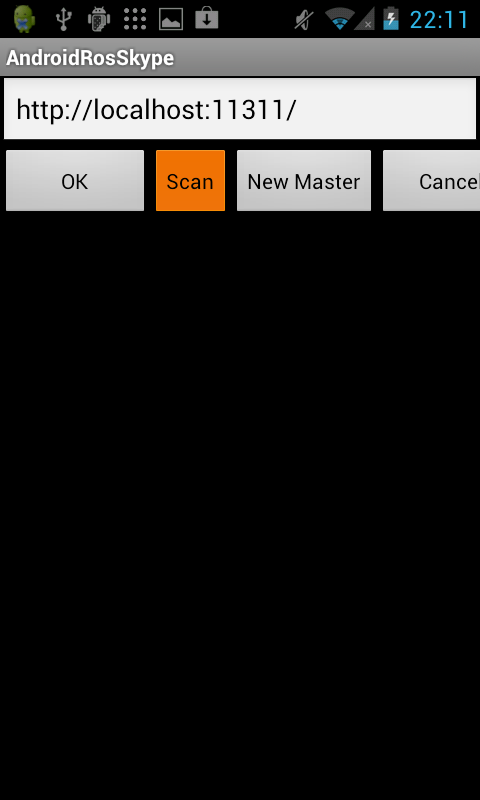
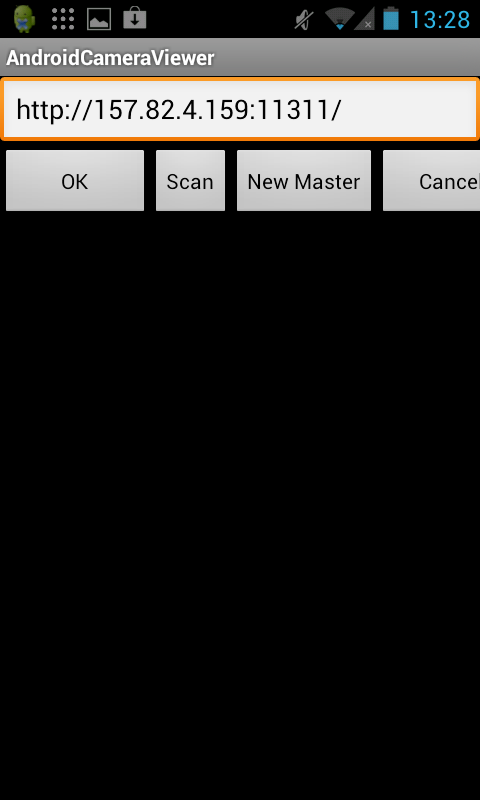
revise android_camera_viewer

diff --git a/jsk_android_apps/android_camera_viewer/launch/doc/android_camera_viewer/html/index.html b/jsk_android_apps/android_camera_viewer/launch/doc/android_camera_viewer/html/index.html
@@ -87,8 +87,24 @@
 <div class="highlight-bash"><div class="highlight"><pre>roslaunch android_camera_viewer usb_cam.launch
 </pre></div>
 </div>
-<img alt="_images/image1.png" src="_images/image1.png" />
-<img alt="_images/image2.jpeg" src="_images/image2.jpeg" />
+<img alt="_images/image1.png" src="_images/image1.png" style="width: 200px;" />
+<p>This application communicates the camera image on the PC with the camera image on the android.</p>
+<p>(PC)</p>
+<ol class="arabic simple">
+<li>start up roscore</li>
+<li>launch usb_cam.launch</li>
+</ol>
+<p>(android)</p>
+<ol class="arabic simple" start="3">
+<li>put ROS_MASTER_URI into the text box</li>
+<li>push OK button</li>
+</ol>
+<img alt="_images/image3.png" src="_images/image3.png" style="width: 400px;" />
+<p>(android)</p>
+<ol class="arabic simple" start="5">
+<li>tap the screen to change in/out camera</li>
+</ol>
+<p>please download from <a class="reference external" href="http://play.google.com/store/apps/details?id=org.ros.android.android_camera_viewer&amp;feature=search_result#?t=W251bGwsMSwxLDEsIm9yZy5yb3MuYW5kcm9pZC5hbmRyb2lkX2NhbWVyYV92aWV3ZXIiXQ..">this URL</a></p>
 <div class="section" id="contents">
 <h3>Contents<a class="headerlink" href="#contents" title="Permalink to this headline">¶</a></h3>
 <div class="highlight-xml"><div class="highlight"><pre><span class="nt">&lt;launch&gt;</span>
@@ -130,7 +146,7 @@
     </div>
     <div class="footer">
         &copy; Copyright 2011, Damon Kohler (damonkohler@google.com).
-      Last updated on 23:00:21 Jul 04, 2012.
+      Last updated on 13:38:59 Jul 05, 2012.
       Created using <a href="http://sphinx.pocoo.org/">Sphinx</a> 1.1.3.
     </div>
   </body>

diff --git a/jsk_android_apps/android_camera_viewer/launch/doc/android_camera_viewer/html/searchindex.js b/jsk_android_apps/android_camera_viewer/launch/doc/android_camera_viewer/html/searchindex.js
@@ -1,1 +1,1 @@
-Search.setIndex({objects:{},terms:{image_view_2:0,image_view:0,apach:0,pixel_format:0,usb_cam:0,pkg:0,file:0,arg:0,yuyv:0,from:0,mmap:0,licens:0,"_image_transport":0,image_width:0,param:0,content:0,camera:0,type:0,screen:0,video_devic:0,node:0,remap:0,video0:0,fals:0,imag:0,compress:0,io_method:0,camera_frame_id:0,usb_cam_nod:0,image_raw:0,valu:0,roslaunch:0,name:0,launch:0,respawn:0,descript:0,dev:0,android_camera_view:0,image_height:0,output:0},objtypes:{},titles:["android_camera_viewer ROS Launch Files"],objnames:{},filenames:["index"]})
+Search.setIndex({objects:{},terms:{pleas:0,tap:0,image_view_2:0,image_view:0,"_image_transport":0,pixel_format:0,usb_cam:0,pkg:0,file:0,arg:0,download:0,yuyv:0,out:0,from:0,commun:0,mmap:0,licens:0,apach:0,image_width:0,param:0,content:0,start:0,camera:0,roslaunch:0,text:0,android:0,type:0,imag:0,video_devic:0,node:0,applic:0,remap:0,video0:0,fals:0,screen:0,compress:0,io_method:0,camera_frame_id:0,usb_cam_nod:0,put:0,image_raw:0,valu:0,box:0,name:0,launch:0,url:0,button:0,respawn:0,descript:0,dev:0,android_camera_view:0,image_height:0,ros_master_uri:0,thi:0,push:0,output:0,chang:0,roscor:0},objtypes:{},titles:["android_camera_viewer ROS Launch Files"],objnames:{},filenames:["index"]})

diff --git a/jsk_android_apps/android_camera_viewer/launch/doc/android_camera_viewer/html/genindex.html b/jsk_android_apps/android_camera_viewer/launch/doc/android_camera_viewer/html/genindex.html
@@ -89,7 +89,7 @@
     </div>
     <div class="footer">
         &copy; Copyright 2011, Damon Kohler (damonkohler@google.com).
-      Last updated on 23:00:21 Jul 04, 2012.
+      Last updated on 13:38:59 Jul 05, 2012.
       Created using <a href="http://sphinx.pocoo.org/">Sphinx</a> 1.1.3.
     </div>
   </body>

diff --git a/jsk_android_apps/android_camera_viewer/launch/doc/android_camera_viewer/html/search.html b/jsk_android_apps/android_camera_viewer/launch/doc/android_camera_viewer/html/search.html
@@ -93,7 +93,7 @@
     </div>
     <div class="footer">
         &copy; Copyright 2011, Damon Kohler (damonkohler@google.com).
-      Last updated on 23:00:21 Jul 04, 2012.
+      Last updated on 13:38:59 Jul 05, 2012.
       Created using <a href="http://sphinx.pocoo.org/">Sphinx</a> 1.1.3.
     </div>
   </body>

diff --git a/jsk_android_apps/android_camera_viewer/launch/doc/android_camera_viewer/html/index-msg.html b/jsk_android_apps/android_camera_viewer/launch/doc/android_camera_viewer/html/index-msg.html
@@ -24,7 +24,7 @@ See also:
 
 
 
-<p class="footer"><small><em>autogenerated on Wed, 04 Jul 2012 23:00:21</em></small></p>
+<p class="footer"><small><em>autogenerated on Thu, 05 Jul 2012 13:38:59</em></small></p>
 
 </div>
 

diff --git a/jsk_android_apps/android_camera_viewer/src/org/ros/android/android_camera_viewer/MainActivity.java b/jsk_android_apps/android_camera_viewer/src/org/ros/android/android_camera_viewer/MainActivity.java
@@ -49,7 +49,7 @@ public class MainActivity extends RosActivity {
   @Override
   protected void onCreate(Bundle savedInstanceState) {
     super.onCreate(savedInstanceState);
-    requestWindowFeature(Window.FEATURE_NO_TITLE);
+    //    requestWindowFeature(Window.FEATURE_NO_TITLE);
     getWindow().addFlags(WindowManager.LayoutParams.FLAG_FULLSCREEN);
     setContentView(R.layout.main);
     rosCameraPreviewView = (RosCameraPreviewView) findViewById(R.id.ros_camera_preview_view);
